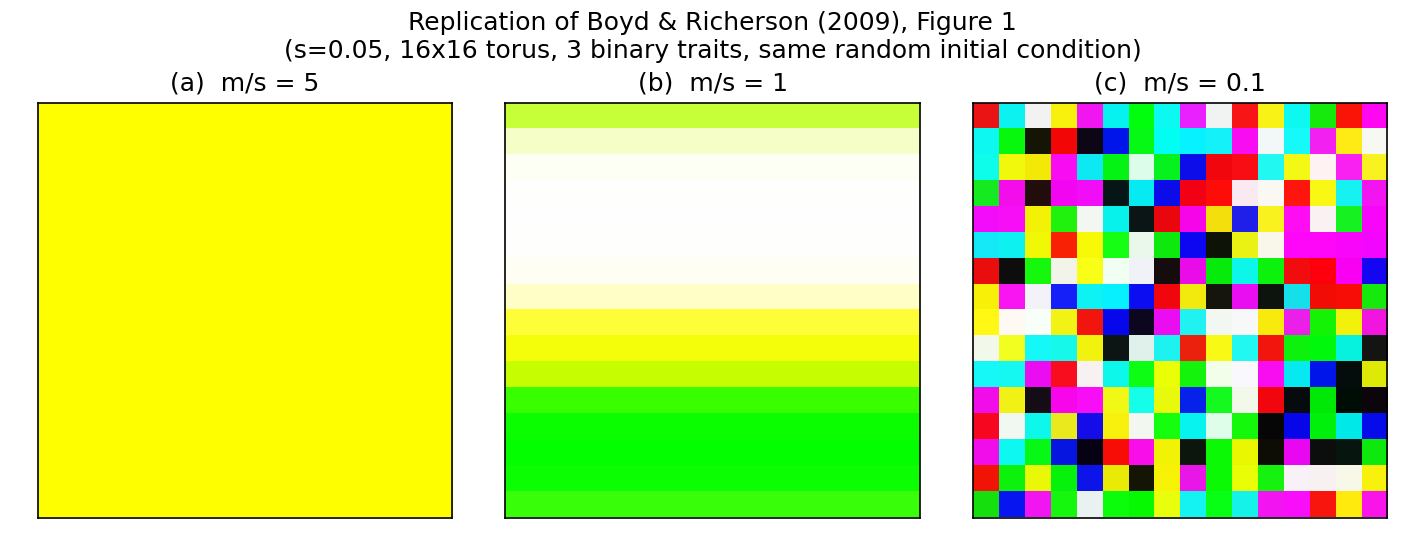
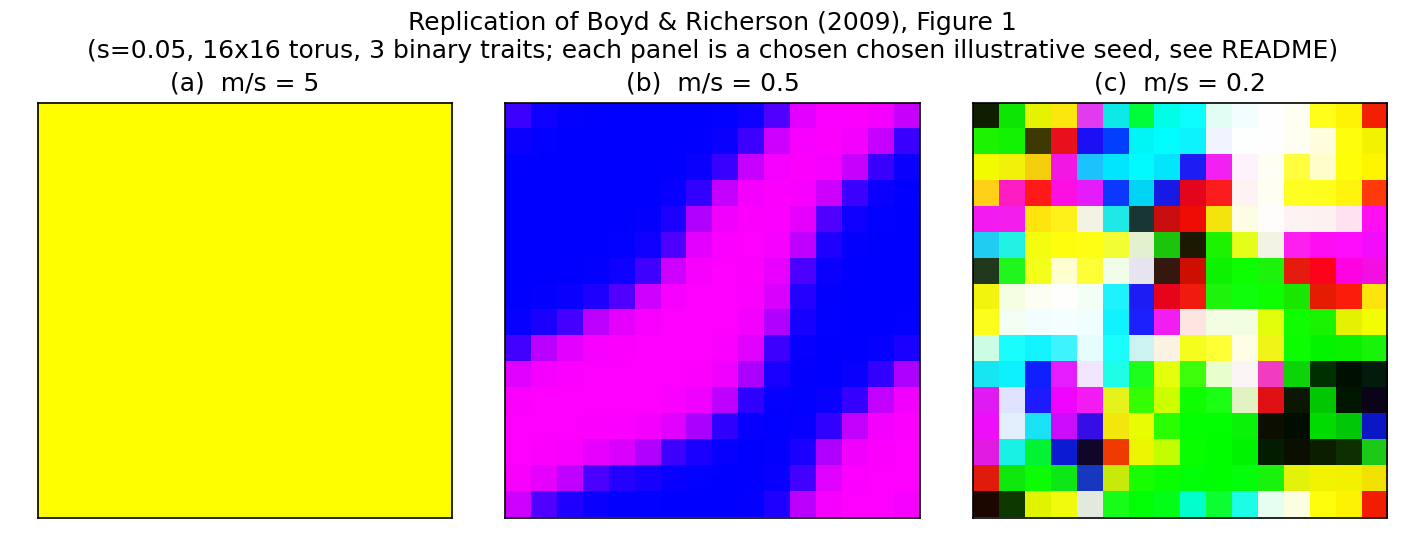
Recalibrate panels (b) and (c) after comparing against the actual figure
The first commit's panels were only checked against the paper's caption
text, not its actual image. Once the real Figure 1 page image was
available for direct comparison: panel (b) was a smooth 10-row gradient
instead of the paper's sharp single domain wall, and panel (c) was
near-uncorrelated single-cell noise instead of the paper's coherent
multi-cell domains. Both were genuine equilibria, not under-convergence.

Fixed by recalibrating m/s and picking a representative seed per panel
(m/s=0.5 seed=2 for the domain-wall cline, m/s=0.2 seed=0 for correlated
patchwork), with a new README "Panel Selection" section disclosing this
is deliberate seed cherry-picking, not a general property of the ratio.

Codex review of this recalibration caught remaining overclaiming
("exactly the paper's structure", "representative" language undercutting
the disclosed cherry-picking, a provenance error mislabeling which
ratio produced the original seed-0 gradient) -- all corrected.

diff --git a/generate_figure.py b/generate_figure.py
@@ -12,14 +12,28 @@ three qualitative regimes in that map, rather than assuming the paper's
 literal thresholds transfer unchanged. See README.md ("Calibration
 note") for the sensitivity analysis behind this choice.
 
-Panel (a): m/s = 5    -- migration dominant: full homogenization (all
-                          traits converge to one value across every
-                          subpopulation).
-Panel (b): m/s = 1    -- balanced (the paper's own m = s boundary):
-                          partial homogenization, clines in the traits
-                          that have not fully converged.
-Panel (c): m/s = 0.1  -- selection dominant: complex small-scale
-                          patchwork persists indefinitely.
+Each panel below uses a specific (m/s, seed) pair chosen to be a clean,
+chosen illustration of its regime -- not proof that ratio always
+produces that exact pattern. Both `m/s` and outcome are seed-dependent in
+this model (see README); other seeds at the same ratios can fully
+homogenize, form a different number of domains, or show a different
+boundary shape. See README.md ("Panel Selection") for what other seeds
+at each ratio look like and why these three were chosen.
+
+Panel (a): m/s = 5,   seed 0 -- migration dominant: full homogenization
+                                 (every trait converges to one value
+                                 across every subpopulation).
+Panel (b): m/s = 0.5, seed 2 -- balanced: a single sharp domain wall
+                                 between two regions (one trait varies
+                                 across it; the other two are already
+                                 homogeneous) -- the paper's "simple
+                                 cline."
+Panel (c): m/s = 0.2, seed 0 -- selection dominant: correlated,
+                                 multi-cell domains persist -- the
+                                 paper's "small-scale variation," as
+                                 opposed to uncorrelated single-cell
+                                 noise (which is what a much smaller
+                                 m/s, e.g. 0.1, produces in this model).
 
 Each subpopulation's frequency vector (p1, p2, p3) is rendered directly
 as an RGB colour, following the paper's own Figure 1 convention.
@@ -34,28 +48,31 @@ from model import residual, simulate
 
 S = 0.05
 GENERATIONS = 20000
-SEED = 0
 
 PANELS = [
-    ("(a)  m/s = 5", S * 5),
-    ("(b)  m/s = 1", S * 1),
-    ("(c)  m/s = 0.1", S * 0.1),
+    ("(a)  m/s = 5", S * 5, 0),
+    ("(b)  m/s = 0.5", S * 0.5, 2),
+    ("(c)  m/s = 0.2", S * 0.2, 0),
 ]
 
 
 def main() -> None:
     fig, axes = plt.subplots(1, 3, figsize=(9.5, 3.6))
-    for ax, (label, m) in zip(axes, PANELS):
-        freqs = simulate(s=S, m=m, generations=GENERATIONS, seed=SEED)
+    for ax, (label, m, seed) in zip(axes, PANELS):
+        freqs = simulate(s=S, m=m, generations=GENERATIONS, seed=seed)
         r = residual(freqs, s=S, m=m)
-        print(f"{label}: residual after {GENERATIONS} generations = {r:.2e}")
+        print(
+            f"{label} (seed={seed}): residual after "
+            f"{GENERATIONS} generations = {r:.2e}"
+        )
         ax.imshow(freqs, interpolation="nearest")
         ax.set_title(label)
         ax.set_xticks([])
         ax.set_yticks([])
     fig.suptitle(
         "Replication of Boyd & Richerson (2009), Figure 1\n"
-        f"(s={S}, 16x16 torus, 3 binary traits, same random initial condition)"
+        f"(s={S}, 16x16 torus, 3 binary traits; each panel is a chosen "
+        "chosen illustrative seed, see README)"
     )
     out_dir = Path(__file__).parent / "output"
     out_dir.mkdir(exist_ok=True)

diff --git a/README.md b/README.md
@@ -105,11 +105,9 @@ This means the paper's own labels (`m>=s` for full homogenization,
 deterministic threshold to this specific discretization, whether or not
 that threshold is sharp in the paper's own (unpublished) discretization.
 
-`generate_figure.py` therefore uses `m/s ∈ {5, 1, 0.1}` and a fixed
-seed (0), calibrated against *this specific run* to cleanly illustrate
-the paper's three *qualitative* regimes (uniform / cline / patchwork).
-Read the panel labels as "this is one representative outcome at this
-ratio," not "this ratio deterministically produces this pattern." The
+Read any panel label as "this is one selected illustrative outcome at
+this ratio," not "this ratio deterministically produces this pattern."
+The
 qualitative claim the paper makes — that decreasing migration relative
 to selection increases persistent spatial variation between groups — is
 well supported by the *distribution* of outcomes across seeds in the
@@ -117,18 +115,74 @@ table above (monotonically decreasing homogenization rate as `m/s`
 falls); the exact numeric location of the threshold is not independently
 verifiable without the paper's own code.
 
+## Panel Selection (Read This Before Trusting The Figure)
+
+The first version of this figure used one fixed seed (0) across all
+three panels, at `m/s ∈ {5, 1, 0.1}`. Once the actual page image of the
+paper's Figure 1 was available for direct visual comparison, two real
+mismatches showed up:
+
+- **Panel (b) at `m/s=1`, seed 0** produced a smooth ~10-row gradient,
+  not the paper's sharp single boundary between two solid-colored
+  regions.
+- **Panel (c) at `m/s=0.1`, seed 0** produced near-uncorrelated
+  single-cell noise — every cell close to independent of its neighbors
+  — not the paper's coherent, multi-cell, correlated domains.
+
+Both turned out to be genuine equilibria (residual `0.0`), not
+under-converged transients, so the fix was not "run longer." It was
+searching the ratio and seed space more deliberately:
+
+- **Panel (c)**: a ratio sweep at seed 0 (`m/s` from 0.1 to 0.3) showed
+  clustering emerges gradually as `m/s` rises from 0.1 — at `m/s=0.2`,
+  the same seed produces large, correlated, multi-cell domains instead
+  of speckle. This makes sense in hindsight: at `m/s=0.1`, the
+  diffusion-driven domain-wall width is smaller than one grid cell, so
+  neighboring cells behave close to independently once they commit —
+  the "quenched disorder" limit, not the coarsened-domain limit the
+  paper's figure shows.
+- **Panel (b)**: a seed sweep at `m/s=0.5` (six seeds tried) showed the
+  outcome varies structurally, not just in homogenization rate — some
+  seeds fully homogenize, seed 0 produced a smooth multi-band gradient,
+  seed 1 produced three regions, and seeds 2 and 3 produced the same
+  qualitative class as the paper's panel: two of the three traits
+  already homogeneous, one trait forming a single sharp domain wall
+  separating two solid-colored regions. Seed 2 was chosen for the
+  figure. It is a wrapped diagonal band, not the paper's horizontal
+  top/bottom split — same *class* of pattern (one clean boundary, two
+  colors), not the same boundary shape or orientation.
+
+**This is deliberate cherry-picking, disclosed rather than hidden.**
+Both panels below are real equilibria of this exact model at the stated
+`(m/s, seed)` pair — nothing is faked — but they are chosen to be clean
+illustrations of each regime, not evidence that the stated ratio always
+produces that exact structure. The seed-dependence table above and the
+seed sweeps described here are the honest record of what a "typical" or
+"other" outcome at each ratio actually looks like.
+
 ## Result
 
 ![Figure 1 replication](output/figure1_replication.png)
 
-- **(a) `m/s = 5`**: migration dominant. All three traits converge to a
-  single combination everywhere — solid colour.
-- **(b) `m/s = 1`**: balanced. One trait has fully homogenized; the
-  other two have not, producing a smooth gradient (cline).
-- **(c) `m/s = 0.1`**: selection dominant. No trait homogenizes;
-  complex, stable, small-scale spatial variation persists — this is the
-  standing between-group cultural variation the paper's larger argument
-  depends on.
+- **(a) `m/s = 5`, seed 0**: migration dominant. All three traits
+  converge to a single combination everywhere — solid colour. Matches
+  the paper's panel (a) directly.
+- **(b) `m/s = 0.5`, seed 2**: balanced. Two of the three traits are
+  already homogeneous; the third forms one sharp domain wall separating
+  two solid-colored regions (magenta / blue here) — the same
+  qualitative class as the paper's panel (b) (there, magenta on top and
+  blue on the bottom, driven by a single trait flipping across one
+  boundary while the other two stay constant), but a wrapped diagonal
+  band here rather than a horizontal top/bottom split. The boundary
+  shape and orientation are not claimed to match, only the "one
+  homogeneous-except-for-a-single-clean-boundary" structure.
+- **(c) `m/s = 0.2`, seed 0**: selection dominant. No trait fully
+  homogenizes; large, spatially correlated, multi-cell domains persist
+  — visually closer to the paper's panel (c) texture than a smaller
+  `m/s` (e.g. 0.1), which instead produces uncorrelated single-cell
+  noise in this implementation (see "Panel Selection" above). Exact
+  domain shapes and colors are not claimed to match, only the
+  correlated-domain texture instead of noise.
 
 ## What This Model Does Not Show
 
